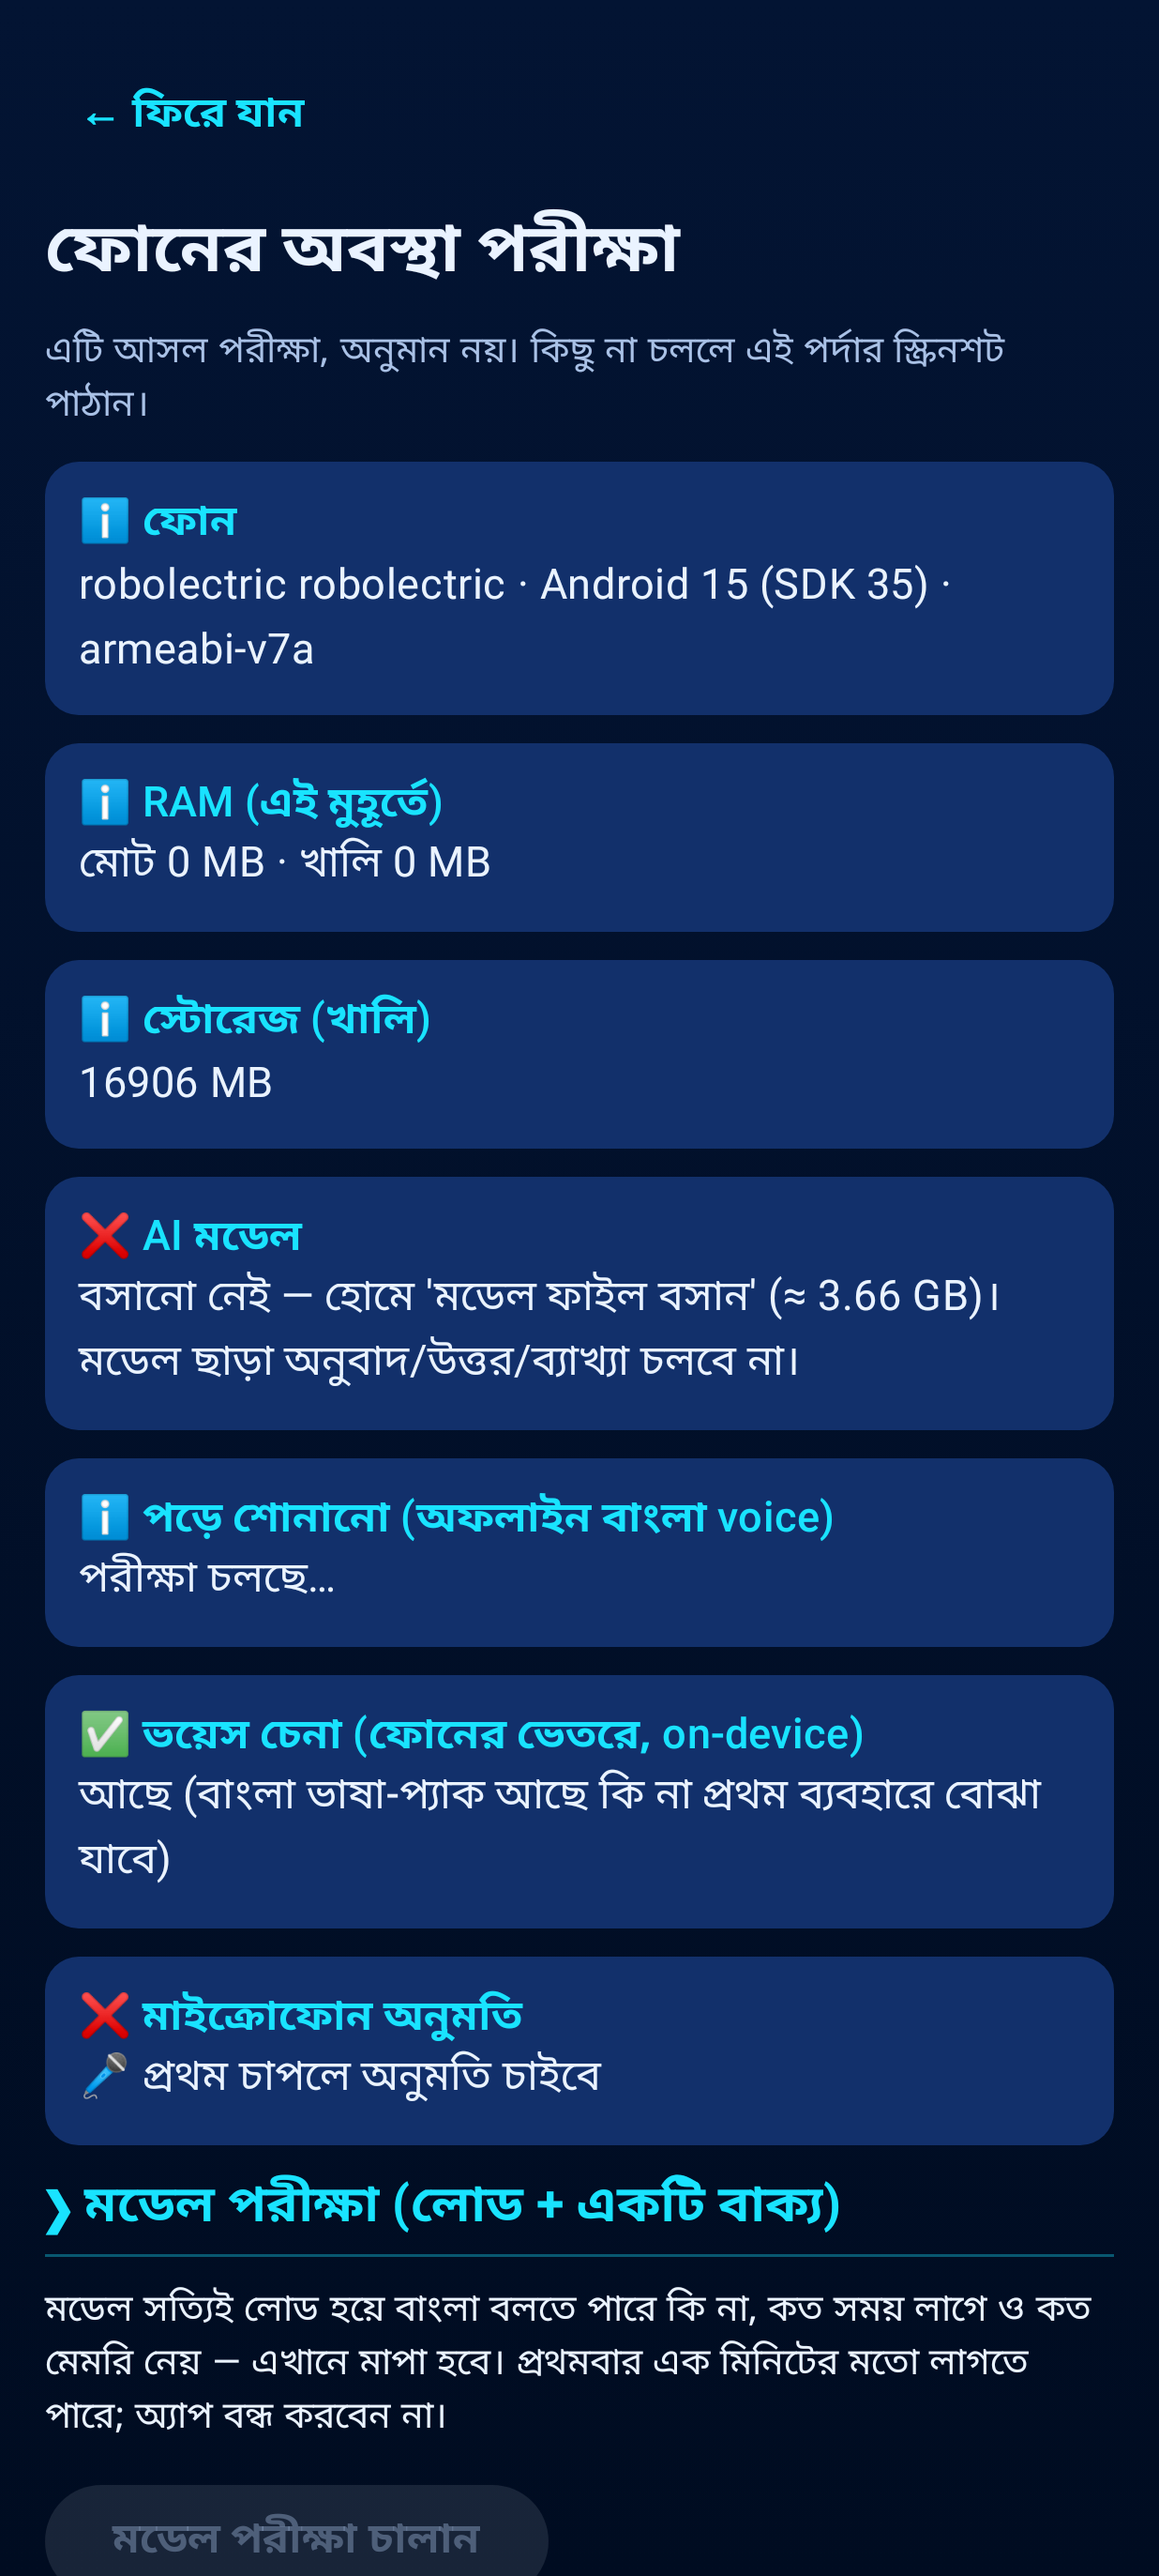
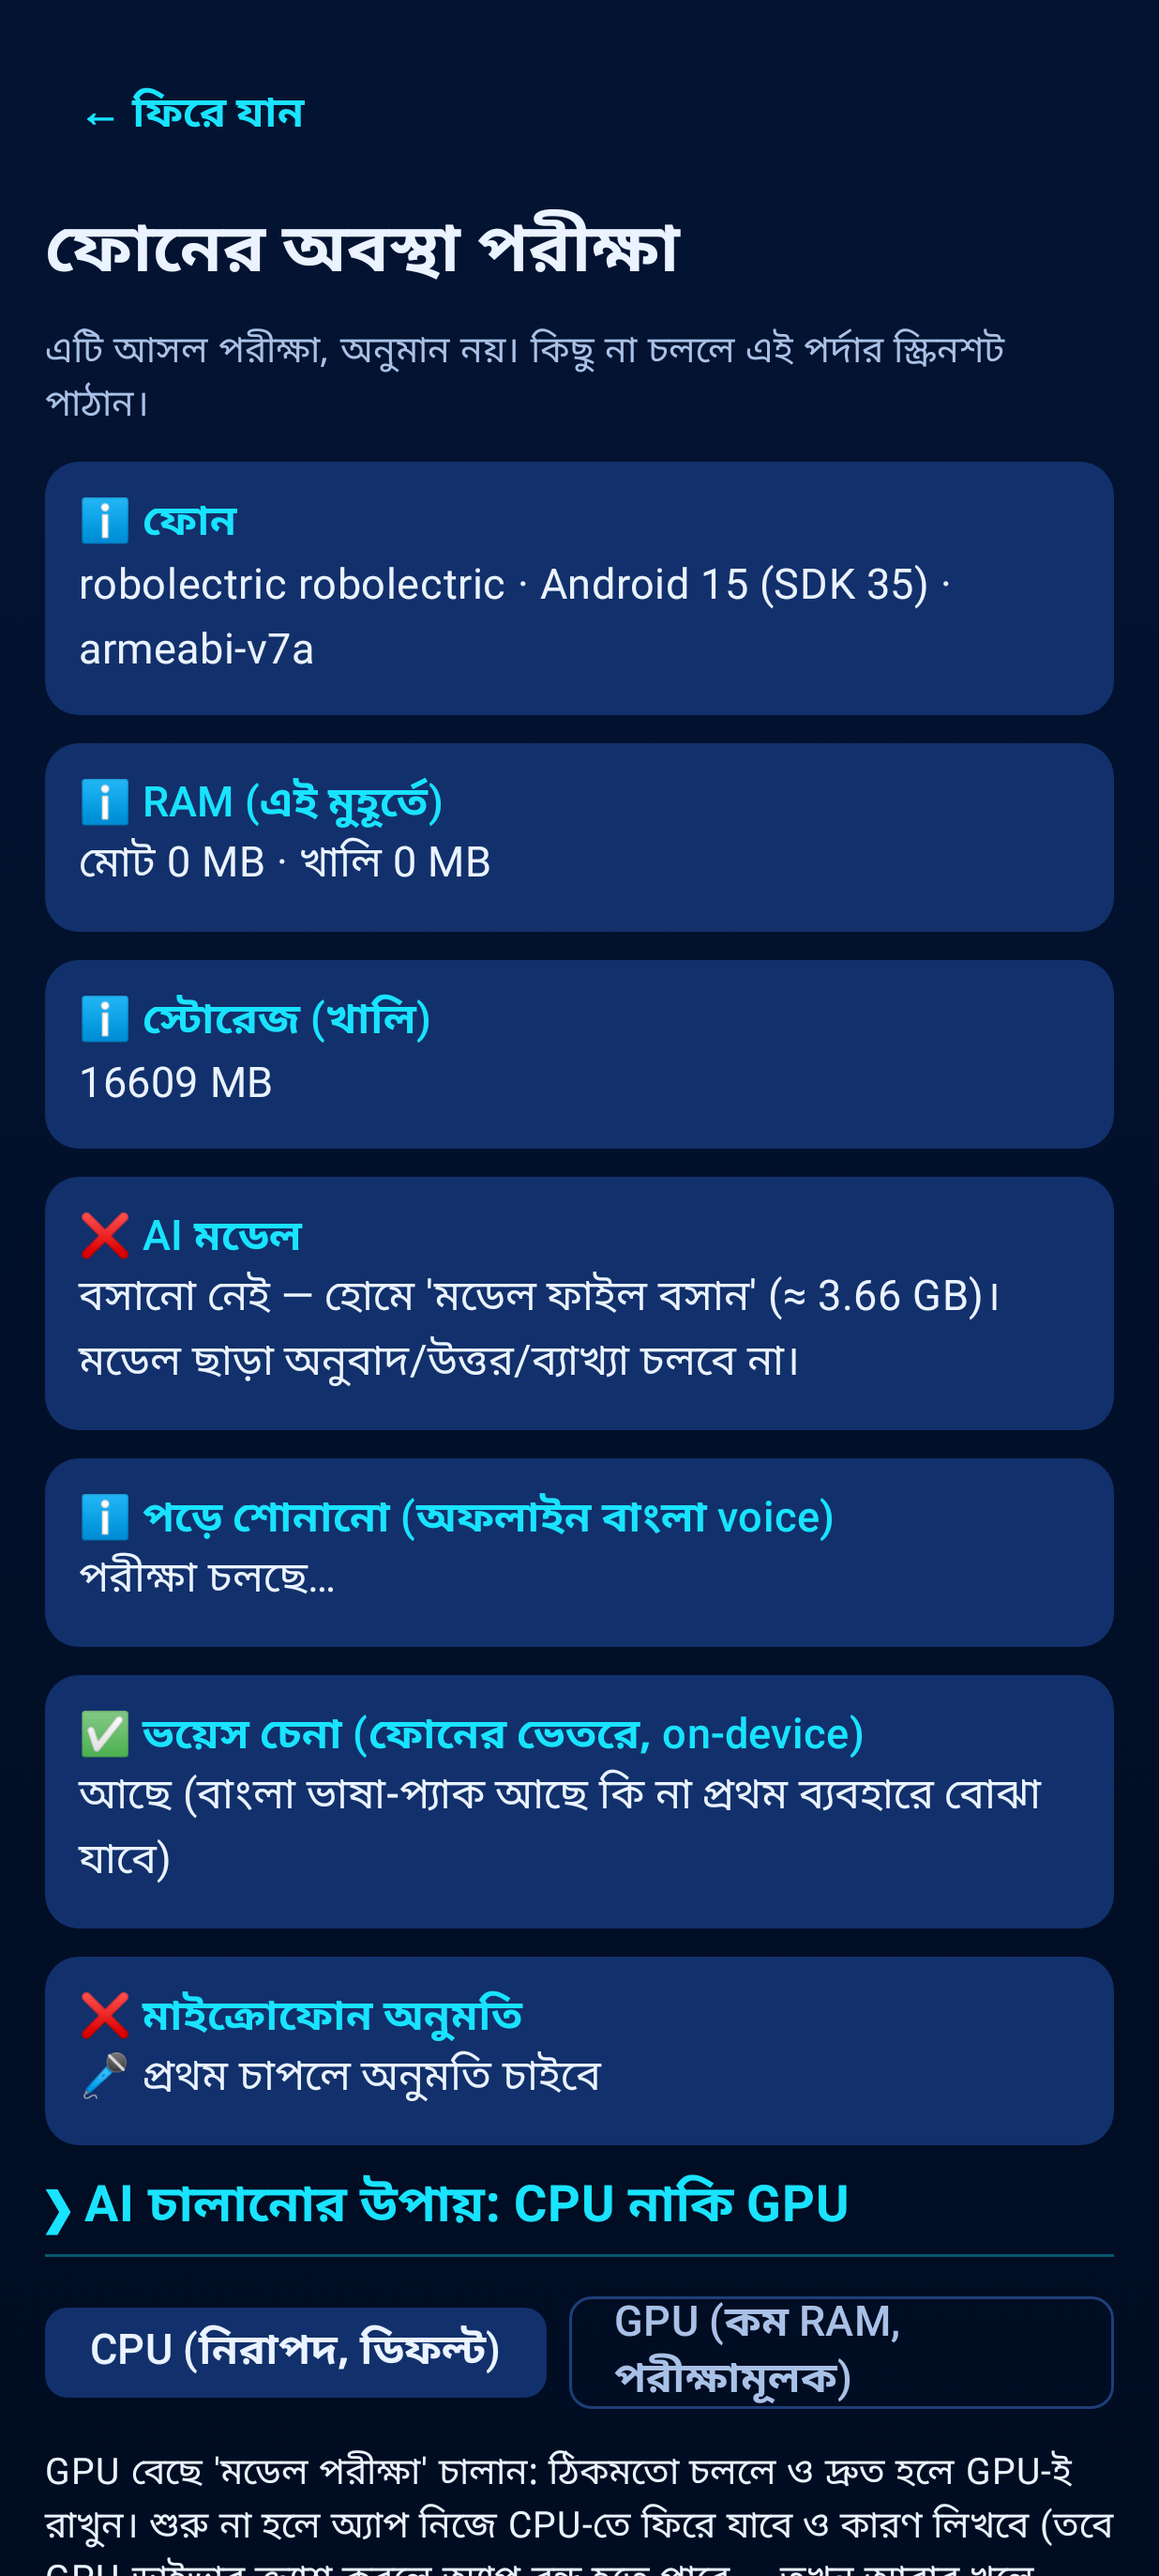
Second review pass: checksum sidecar no longer listed as model, clear message when no translation to read, lint in CI, docs honest about untested-on-Android parts
Claude-Session: https://claude.ai/code/session_01NfSXpsYf5hZ1RGaoGfDT7R

Changed region(s): [[0.0307, 0.8361, 0.9531, 1.0], [0.8916, 0.867, 0.9223, 0.898], [0.1537, 0.4026, 0.1845, 0.4335]]

diff --git a/app/src/main/java/app/personal/banglaai/ui/ReaderSection.kt b/app/src/main/java/app/personal/banglaai/ui/ReaderSection.kt
@@ -50,7 +50,7 @@ fun ReaderSection(doc: VaultDoc, wf: DocWorkflow, totalPages: Int, initialComman
     fun plan() = ReadingPlan({ p -> (if (useTranslation) wf.translations.get(doc.id, p) else wf.texts.get(doc.id, p))?.text }, totalPages)
     fun play(page: Int, seg: Int = 0) {
         val pl = plan(); val start = if (seg == 0) pl.startAt(page) else ReadingPosition(page, seg)
-        if (start == null) voiceMsg = "এই পৃষ্ঠা থেকে পড়ার মতো ${if (useTranslation) "অনুবাদ" else "লেখা"} নেই" else {
+        if (start == null) voiceMsg = if (useTranslation) "এই পৃষ্ঠা থেকে পড়ার মতো বাংলা অনুবাদ এখনো নেই। আগে ওপরে 'বাংলায় অনুবাদ করুন' চালান (মডেল লাগবে), অথবা লেখাটি বাংলা হলে নিচে 'বের করা মূল লেখা' বেছে নিন।" else "এই পৃষ্ঠা থেকে পড়ার মতো বের-করা লেখা নেই (স্ক্যান পৃষ্ঠা হলে আগে OCR চালান)।" else {
             voiceMsg = null; ReadAloudController.play(ctx, pl, start)
             if (android.os.Build.VERSION.SDK_INT >= 33) notifPerm.launch(Manifest.permission.POST_NOTIFICATIONS)   // only affects whether the controls are visible
             ReadAloudService.start(ctx)

diff --git a/app/src/test/java/app/personal/banglaai/storage/ModelStoreTest.kt b/app/src/test/java/app/personal/banglaai/storage/ModelStoreTest.kt
@@ -1,0 +1,23 @@
+package app.personal.banglaai.storage
+
+import android.content.Context
+import androidx.test.core.app.ApplicationProvider
+import org.junit.Assert.*
+import org.junit.Test
+import org.junit.runner.RunWith
+import org.robolectric.RobolectricTestRunner
+import org.robolectric.annotation.Config
+import java.io.File
+
+@RunWith(RobolectricTestRunner::class)
+@Config(sdk = [35])
+class ModelStoreTest {
+    @Test fun checksumSidecarFilesAreNotListedAsModels() {
+        val ctx = ApplicationProvider.getApplicationContext<Context>(); val store = ModelStore(ctx)
+        val dir = File(ctx.noBackupFilesDir, "models").apply { mkdirs() }
+        File(dir, "m.litertlm").writeBytes(ByteArray(10)); File(dir, "m.litertlm.sha256").writeText("abc"); File(dir, "half.tmp").writeBytes(ByteArray(1))
+        assertEquals(listOf("m.litertlm"), store.list().map { it.name })
+        assertEquals("abc", store.list().single().sha256)
+        store.delete("m.litertlm"); assertTrue(store.list().isEmpty()); assertFalse(File(dir, "m.litertlm.sha256").exists())
+    }
+}

diff --git a/app/src/main/java/app/personal/banglaai/storage/ModelStore.kt b/app/src/main/java/app/personal/banglaai/storage/ModelStore.kt
@@ -16,7 +16,7 @@ data class ModelFile(val name: String, val size: Long, val sha256: String)
 class ModelStore(private val context: Context) {
     private val dir = File(context.noBackupFilesDir, "models").apply { mkdirs() }
 
-    fun list(): List<ModelFile> = dir.listFiles { f -> f.isFile && !f.name.endsWith(".tmp") }.orEmpty()
+    fun list(): List<ModelFile> = dir.listFiles { f -> f.isFile && !f.name.endsWith(".tmp") && !f.name.endsWith(".sha256") }.orEmpty()
         .sortedBy { it.name }.map { ModelFile(it.name, it.length(), File(dir, it.name + ".sha256").takeIf(File::exists)?.readText().orEmpty()) }
 
     fun freeBytes() = dir.usableSpace

diff --git a/STATUS.md b/STATUS.md
@@ -42,6 +42,12 @@
 | পাসফ্রেজ-এনক্রিপ্টেড ব্যাকআপ/রিকভারি | ✅ | ✅ কন্টেইনার: ভুল পাসফ্রেজ/বাইট-বদল/ফাইল-ভুল ধরা পড়ে | পূর্ণ create→restore ফোনে |
 | স্টোরেজ ব্যবহার প্যানেল, ক্যাশ মোছা | ✅ | কম্পাইল মাত্র | ফোনে |
 
+## দ্বিতীয় দফা নিজের রিভিউ (ফোনে দেওয়ার আগে)
+- ✅ Android lint: ৪টি ত্রুটি পেয়ে ঠিক (API-৩৩ `readNBytes`; API-৩০ keystore কল → **minSdk ৩১**; API-৩১ on-device speech) — এখন lint ত্রুটিহীন (CI-তেও যুক্ত)।
+- ✅ কোড-পড়ে পাওয়া ও ঠিক: অনুবাদ **থামালে** চলতি পৃষ্ঠা "ব্যর্থ" দাগ হতো (এখন "বাকি", টেস্টসহ); ক্র্যাশের পর PDF-এর প্লেইন অস্থায়ী কপি থেকে যেত (এখন প্রতি শুরুতে মোছে); মডেল ফাইলের `..`-ধরনের নাম; Vault-এ এক্সটেনশনহীন নাম; বায়োমেট্রিক-কী ব্যর্থ হলে ক্র্যাশ (এখন বার্তা); ফোন-পরীক্ষার পর্দায় স্ক্রিনশট আটকে থাকা (এই এক পর্দায় অনুমতি)।
+- ✅ যোগ: সোর্স-কোড ফাইল (২৪+ ধরন) ডকুমেন্ট/কোড-স্ক্রিনে; ক্যামেরায় ছবি (সিস্টেম ক্যামেরা অ্যাপ দিয়ে — অ্যাপে CAMERA অনুমতি নেই); GPU বিকল্প (ডিফল্ট CPU, ব্যর্থ হলে CPU-তে ফেরে)।
+- ❌ **আসল Android-এ (ইমুলেটর/ফোন) অ্যাপ এখনো একবারও চালানো হয়নি।** ইমুলেটর দুই ঘণ্টা চেষ্টা করেও টেকেনি (KVM নেই)। তাই Keystore, Tesseract-native, TTS/STT, LiteRT-LM-native, R8-release-এর আসল আচরণ **অপরীক্ষিত**; পরীক্ষা `app/src/androidTest`-এ লেখা আছে।
+
 ## সহকারী (সরাসরি প্রশ্ন/অনুবাদ) ও ফোন-পরীক্ষা — ফোনে প্রথম ইনস্টলের পর যোগ
 - **কারণ:** প্রথম ইনস্টলে মালিক দেখলেন "কিছুই করে না"। আসল ত্রুটি আমার: (১) হোমের লেখা-বাক্সে ফাইল-নির্দেশ ছাড়া কিছু লিখলে অ্যাপ কিছুই করত না; (২) সরাসরি প্রশ্ন/অনুবাদের কোনো জায়গাই ছিল না — AI শুধু ডকুমেন্ট/কোড পর্দার ভেতরে ছিল; (৩) মডেল না থাকলে সব AI চুপচাপ অচল, হোমে তা বলা হতো না।
 - ✅ ঠিক করা হয়েছে: 💬 সহকারী পর্দা (প্রশ্ন / অনুবাদ→বাংলা, স্ট্রিমিং, থামান, 🔊 শুনুন), হোমের লেখা/ভয়েস নির্দেশ ফাইল-নির্দেশ না হলে সহকারীতে যায়; মডেল না থাকলে স্পষ্ট বার্তা; হোমের "শুরুর ধাপ" কার্ডে মডেল-অবস্থা ও বাটন; 🩺 ফোন পরীক্ষা (RAM, স্টোরেজ, মডেল-checksum, বাংলা TTS, ভয়েস চেনা, মাইক অনুমতি, এবং "মডেল পরীক্ষা": আসল লোড+একটি বাক্য, সময়/মেমরি/ত্রুটির পূর্ণ লেখা)।

diff --git a/docs/BUILD.md b/docs/BUILD.md
@@ -8,7 +8,7 @@
 sdkmanager "platforms;android-37.0" "build-tools;35.0.0" "platform-tools"
 export ANDROID_HOME=<sdk path>
 ```
-(`compileSdk = 37` — কারণ androidx.core 1.18 ইত্যাদি এটি দাবি করে; `targetSdk = 35`, `minSdk = 29`।)
+(`minSdk = 31` (Android 12+; S24 Ultra-র জন্য যথেষ্ট), `compileSdk = 37` — কারণ androidx.core 1.18 ইত্যাদি এটি দাবি করে; `targetSdk = 35`, `minSdk = 29`।)
 
 ## বিল্ড ও টেস্ট
 ```
@@ -30,3 +30,8 @@ ANDROID_HOME=... tools/sign_release.sh ~/banglaai-release.jks banglaai
 
 ## ফোনে ইনস্টল
 `adb install -r ChoudhurySahebsPS-release.apk` অথবা ফাইলটি ফোনে নিয়ে "অজানা উৎস থেকে ইনস্টল" অনুমতি দিয়ে খুলুন।
+
+## আসল-Android পরীক্ষা (instrumented)
+`app/src/androidTest/` — `SmokeCoreTest` (Keystore + Tink Vault, PDF নিষ্কাশন, অধ্যায়, এক্সপোর্ট TXT/DOCX/PDF, ব্যাকআপ→মুছে→ফেরত, Tesseract-এর আসল native লাইব্রেরি, PIN, বায়োমেট্রিক-কী) ও `SmokeUiTest` (প্রথম চালু → PIN → হোম → সহকারী → ফোন-পরীক্ষা)।
+চালাতে: ফোন USB-তে (developer options + USB debugging) বা KVM-সহ ইমুলেটরে `./gradlew connectedDebugAndroidTest` (x86_64 ইমুলেটরে `-Pemu` যোগ করুন)।
+**এগুলো এখনো কোনো আসল Android-এ চালানো হয়নি**: এই বিল্ড-মেশিনে KVM নেই; সফটওয়্যার-ইমুলেটরে Android 14 প্রতিবার watchdog-এ ভেঙে পড়েছে।
